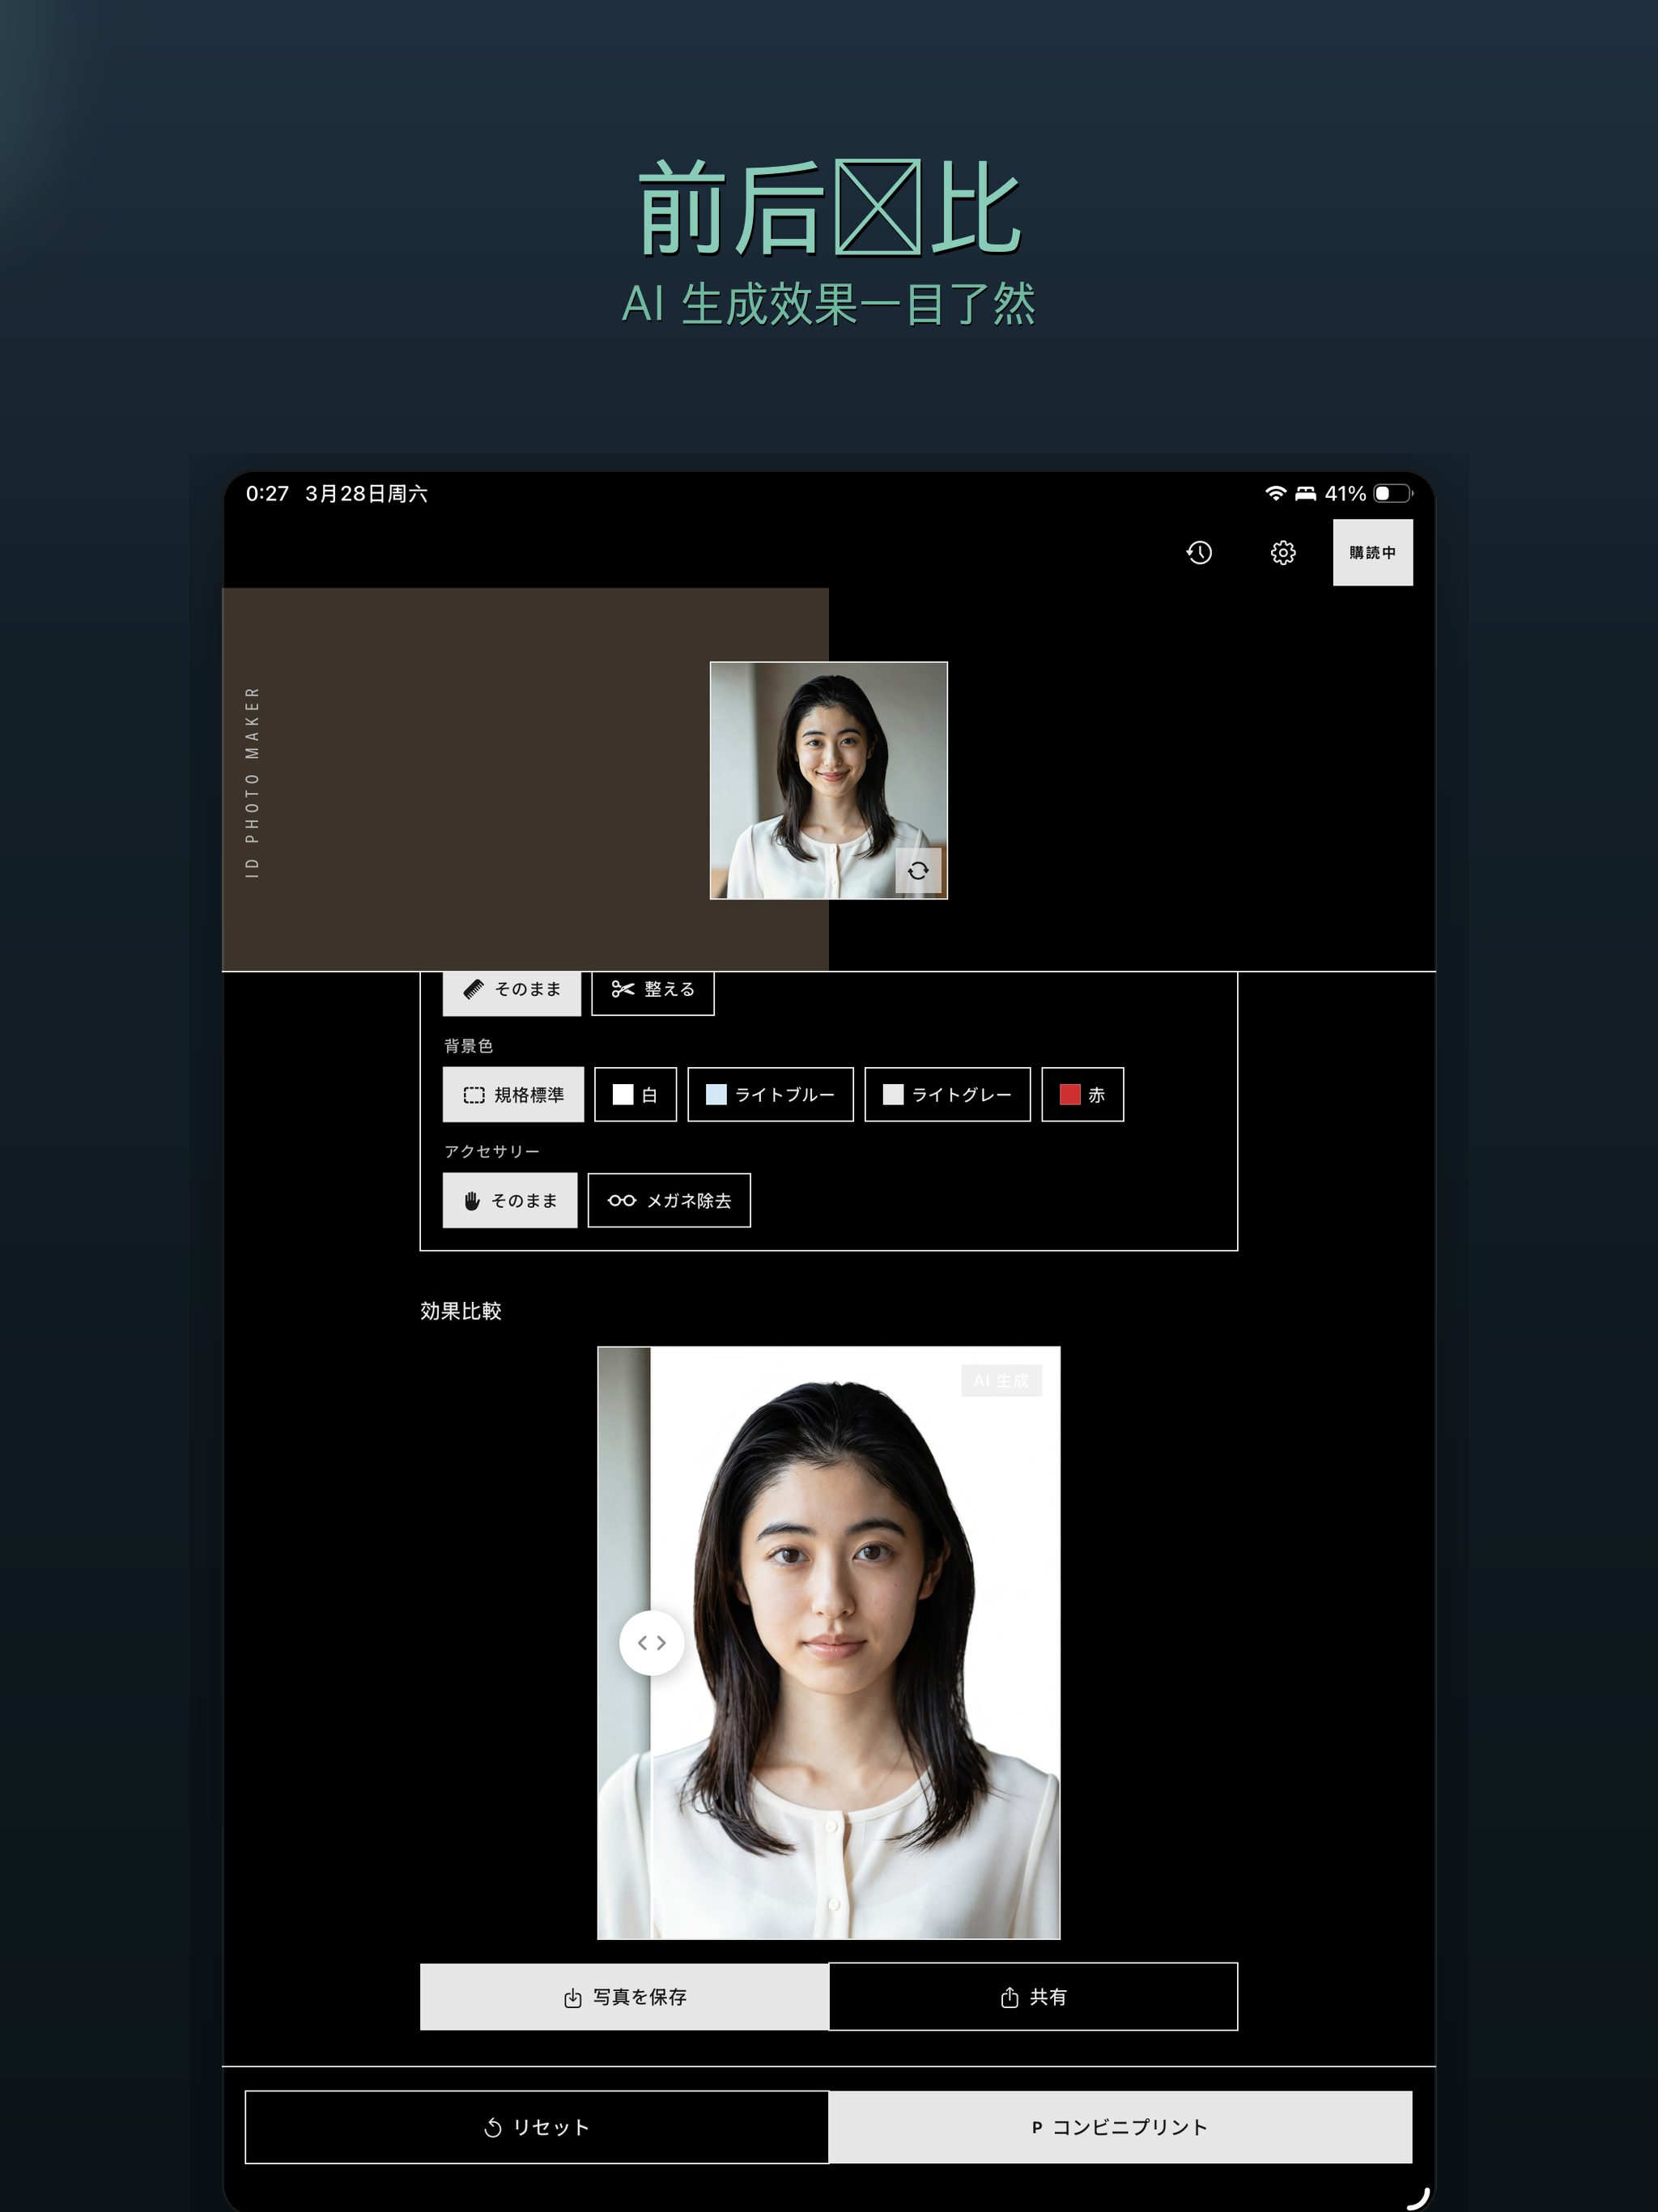
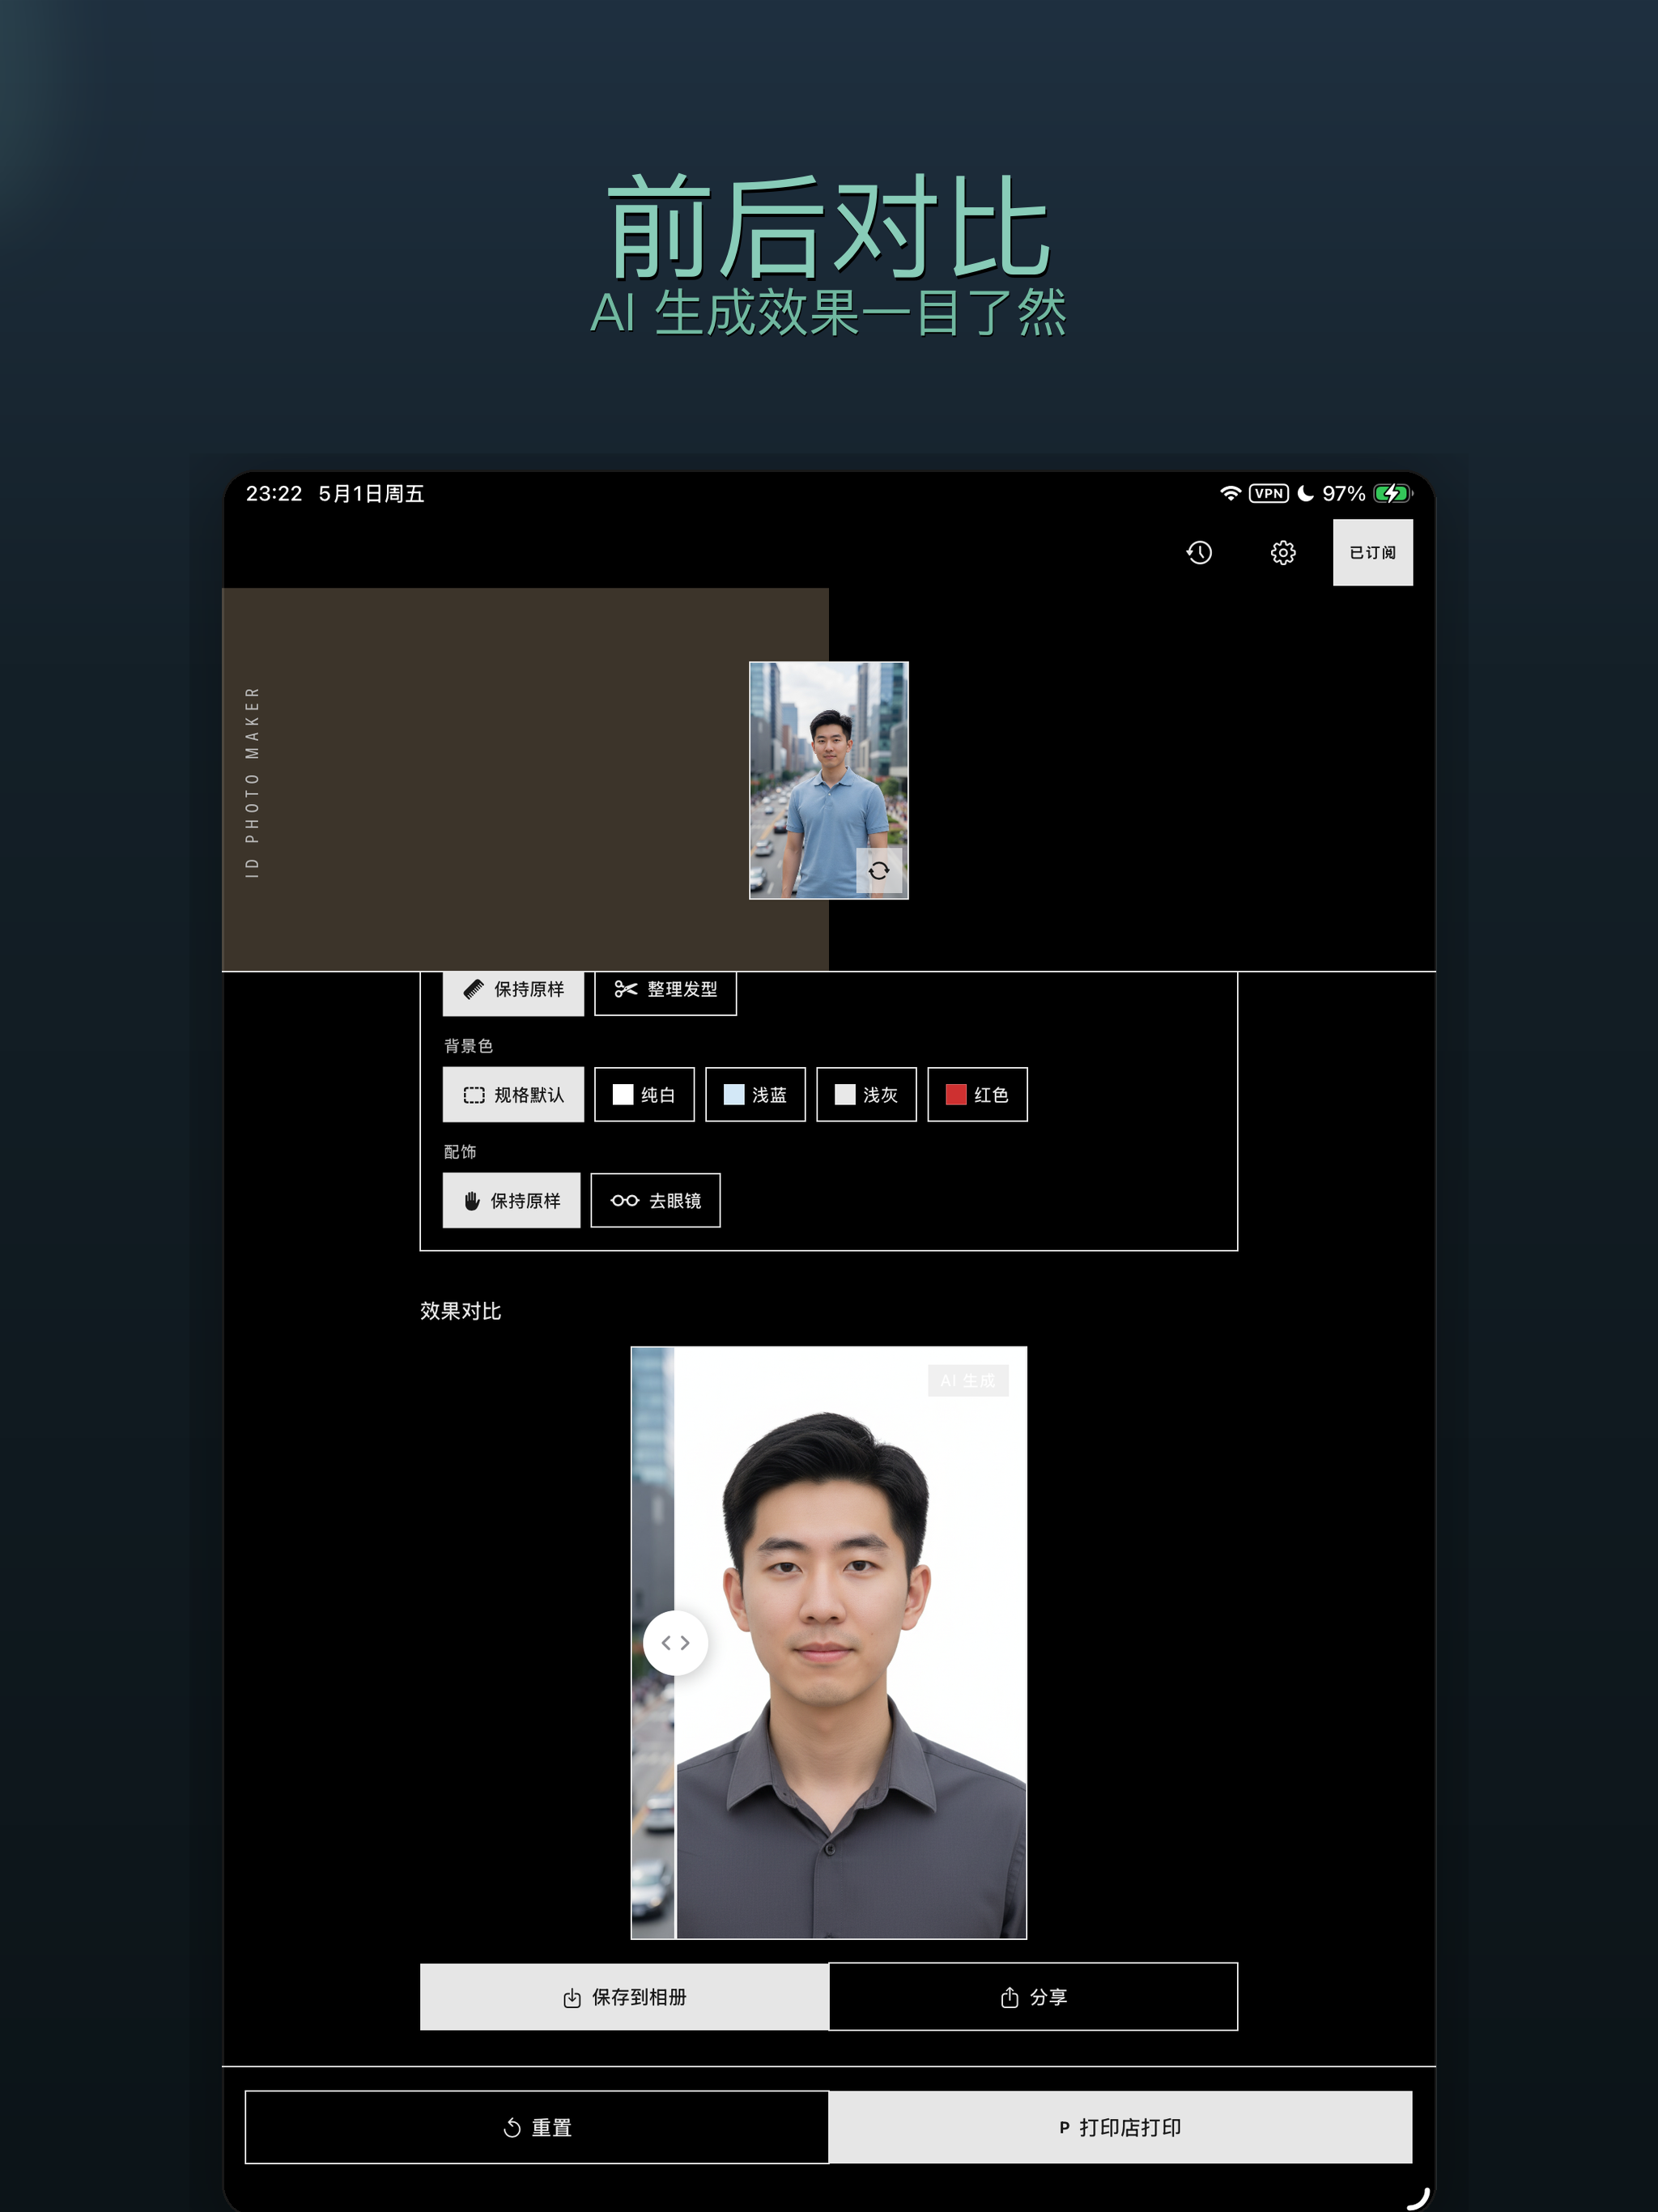
feat: 新增 iPad 宣传截图 + App Store 审核响应
- generate.py 新增 iPad 13" 截图配置（3张：AI智能证件照/前后对比/打印排版）
- 原始设备截图 IMG_0060/0061/0062 来自新一轮拍摄
- 补充 App Store 简体中文描述（必填项）
- 备注字段填写 Guideline 2.1 所需 6 项信息，已重新提交审核

diff --git a/Screenshots/generate.py b/Screenshots/generate.py
@@ -98,9 +98,9 @@ IPAD_SCREENSHOTS = {
         {"img": "IMG_0052.PNG", "title": "Print-Ready Layout",  "subtitle": "Auto-layout for L-size & 2L paper",   "bg": "bg-4", "accent": "accent-4", "sub": "sub-4", "deco": "deco-4"},
     ],
     "zh-Hans": [
-        {"img": "IMG_0050.PNG", "title": "AI 智能证件照",   "subtitle": "选好规格 一键生成",               "bg": "bg-1", "accent": "accent-1", "sub": "sub-1", "deco": "deco-1"},
-        {"img": "IMG_0051.PNG", "title": "前后对比",        "subtitle": "AI 生成效果一目了然",              "bg": "bg-3", "accent": "accent-3", "sub": "sub-3", "deco": "deco-3"},
-        {"img": "IMG_0052.PNG", "title": "排版即刻打印",    "subtitle": "L判/2L自动排版 便利店直接打印",     "bg": "bg-4", "accent": "accent-4", "sub": "sub-4", "deco": "deco-4"},
+        {"img": "IMG_0060.PNG", "title": "AI 智能证件照",   "subtitle": "10+ 规格 一键生成",               "bg": "bg-1", "accent": "accent-1", "sub": "sub-1", "deco": "deco-1"},
+        {"img": "IMG_0061.PNG", "title": "前后对比",        "subtitle": "AI 生成效果一目了然",              "bg": "bg-3", "accent": "accent-3", "sub": "sub-3", "deco": "deco-3"},
+        {"img": "IMG_0062.PNG", "title": "一键打印排版",    "subtitle": "自动排版 带去打印店即可打印",        "bg": "bg-4", "accent": "accent-4", "sub": "sub-4", "deco": "deco-4"},
     ],
     "ko": [
         {"img": "IMG_0050.PNG", "title": "AI 증명사진",      "subtitle": "규격 선택, 원탭으로 생성",           "bg": "bg-1", "accent": "accent-1", "sub": "sub-1", "deco": "deco-1"},

diff --git a/docs/dev-logs/2026-05-02.md b/docs/dev-logs/2026-05-02.md
@@ -1,0 +1,59 @@
+# 开发日志 — 2026-05-02
+
+## 摘要
+
+iPad App Store 宣传截图制作、App Store 审核被拒响应（Guideline 2.1 备注补充 + 描述填写）、重新提交审核。
+
+---
+
+## 新增：iPad App Store 宣传截图（中文版）
+
+使用 `Screenshots/generate.py` 生成 3 张 iPad 13" 宣传图（原始设备截图来自 IMG_0060/0061/0062）。
+
+### 截图内容（zh-Hans）
+
+| 文件 | 标题 | 副标题 | 背景色 |
+|------|------|--------|--------|
+| iPad-13-01.png | AI 智能证件照 | 10+ 规格 一键生成 | 暖棕渐变 |
+| iPad-13-02.png | 前后对比 | AI 生成效果一目了然 | 蓝绿渐变 |
+| iPad-13-03.png | 一键打印排版 | 自动排版 带去打印店即可打印 | 琥珀渐变 |
+
+### generate.py 变更
+
+新增 `IPAD_SCREENSHOTS` 配置块，复用 iPhone 截图的渐变/装饰色系，画布尺寸调整为 iPad 13" 标准（2064×2752）。
+
+---
+
+## App Store 审核响应
+
+### 背景
+
+App 因 **Guideline 2.1 - Information Needed** 被拒，要求在"App 审核信息 → 备注"填写 6 项信息。
+
+### 完成的操作
+
+1. **备注（Notes）字段** — 填写以下 6 项（1517 字符，剩余 2483）：
+   - App 用途说明（15+ 中国证件规格，AI 自动生成）
+   - 功能访问路径（无需登录，免费/Pro 操作步骤）
+   - 外部服务列表（HivisionIDPhotos、阿里云百炼、AdMob、StoreKit 2）
+   - 地区差异说明（仅中国大陆，PIPL 合规）
+   - 无受监管行业说明
+   - 屏幕录像说明（待用户手动录制上传）
+
+2. **简体中文描述** — 补充 App 描述必填项（~386 字符），涵盖核心功能、Pro 专属、隐私保护。
+
+3. **重新提交审核** — 状态已变为"**可供审核**"（build 1.1.1 (14)）。
+
+### 待办
+
+- [ ] 在真机录制功能演示视频，上传至"App 审核信息 → 附件"
+
+---
+
+## 文件变更汇总
+
+| 文件 | 变更类型 |
+|------|---------|
+| `Screenshots/generate.py` | 新增 iPad 13" 截图配置 |
+| `Screenshots/zh-Hans/iPad-13-0{1-3}.png` | 新增 iPad 宣传截图 |
+| `Screenshots/raw/IMG_0060/0061/0062.PNG` | 新增原始设备截图 |